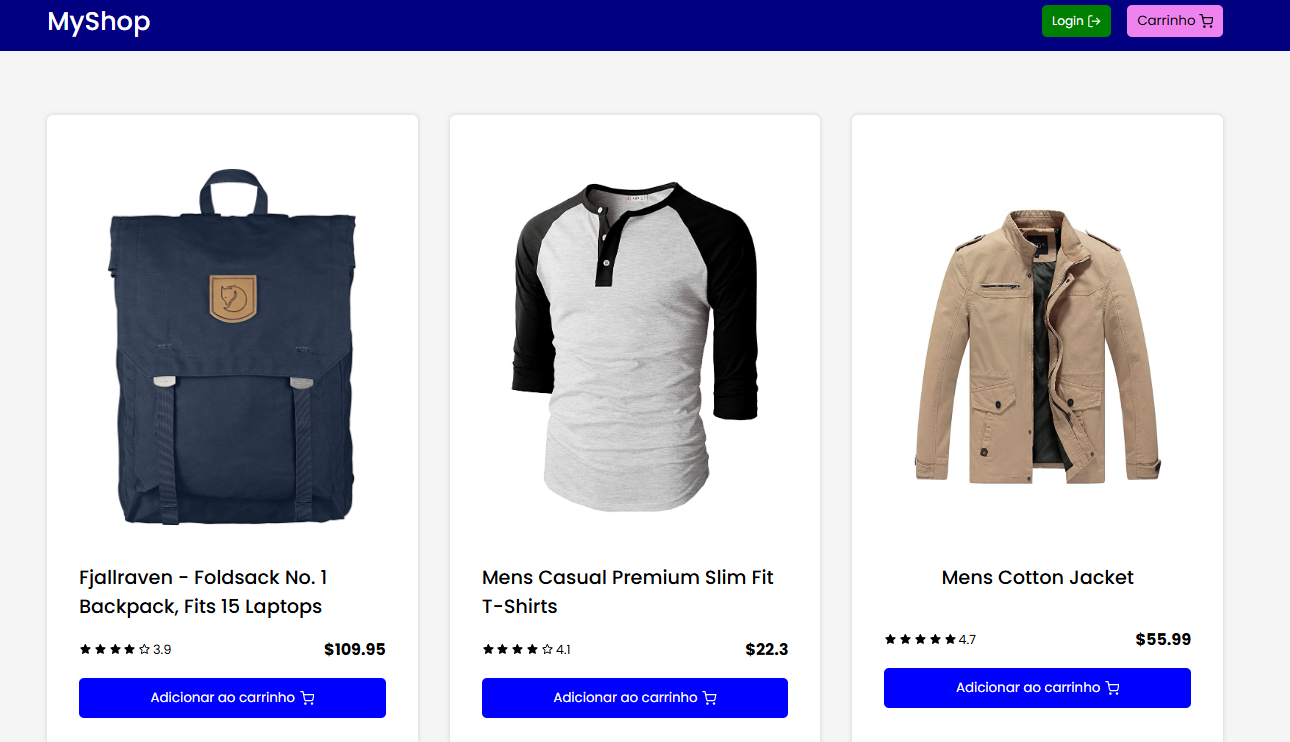
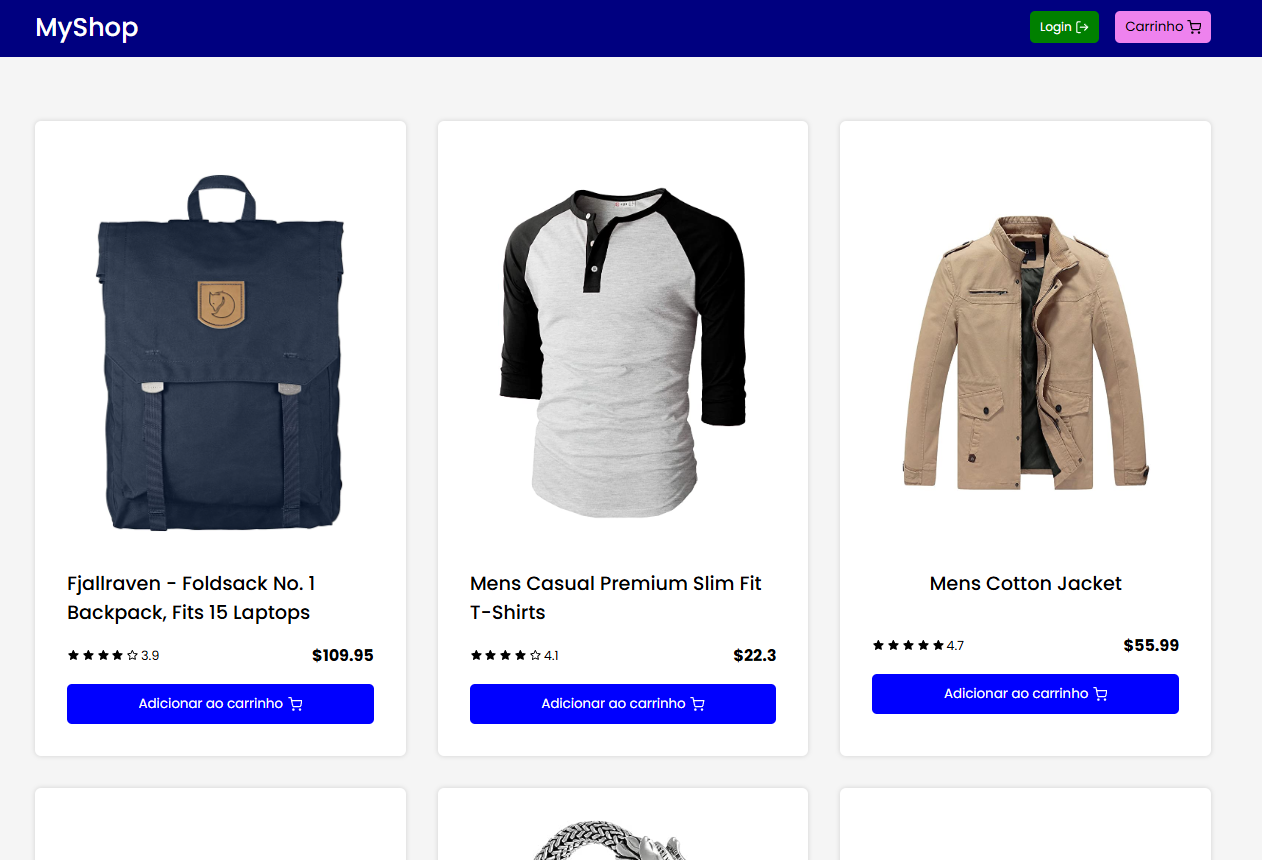
Adicionando melhorias na UX e melhorando a NavBar das páginas.

diff --git a/src/components/ProjectCard/styles.css b/src/components/ProjectCard/styles.css
@@ -3,13 +3,13 @@
   flex-direction: column;
   justify-content: space-between;
   margin-top: 8px;
-  background-color: #fff;
   border-radius: 12px;
-  box-shadow: 0 4px 12px rgba(0, 0, 0, 0.1);
+  box-shadow: 4px 4px 12px rgba(0, 0, 0, 0.575);
   overflow: hidden;
   transition: transform 0.5s ease;
   width: 100%;
   max-width: 420px;
+  
 }
 
 .project-card:hover {
@@ -24,7 +24,9 @@
 }
 
 .project-info {
+  background-color: #6e6e6e4f;
   display: flex;
+  align-items: center;
   justify-content: space-between;
   gap: 8px;
   padding: 16px;
@@ -33,9 +35,10 @@
 
 .project-title {
   font-family: "Inconsolata", Courier, monospace;
+  color: white;
 
   font-size: 20px;
-  font-weight: 500;
+  font-weight: 600;
   margin-bottom: 8px;
 }
 
@@ -47,12 +50,21 @@
   width: 92px;
   padding: 8px;
   border-radius: 8px;
+  font-weight: 500;
   height: 32px;
   background-color: #ff000470;
   color: white;
+  box-shadow: 0px 0px 8px #ff0004;
 }
 
 .btn-to-page:hover {
   background-color: #ff0004;
-  transition: 0.9s;
+  transition:  0.9s;
+}
+
+@media (max-width: 768px) {
+  .project-title{
+    font-size: 1.1em;
+    
+  }
 }

diff --git a/src/components/NavBarToPage/NavBarToPage.tsx b/src/components/NavBarToPage/NavBarToPage.tsx
@@ -1,9 +1,22 @@
 import "./styles.css";
 import { Link } from "react-router-dom";
+import { useEffect, useState } from "react";
 
 function NavBarToPage() {
+  const [scrolled, setScrolled] = useState(false);
+
+  useEffect(() => {
+    const handleScroll = () => {
+      setScrolled(window.scrollY > 50);
+    };
+
+    window.addEventListener("scroll", handleScroll);
+
+    return () => window.removeEventListener("scroll", handleScroll);
+  }, []);
+
   return (
-    <div className="nav-container-to-page">
+    <div className={`nav-container-to-page ${scrolled ? "nav-scrolled" : ""}`}>
       <nav className="navbar-desk-to-page">
         <Link to={"/"}>
           <img src="../images/Logo.webp" alt="navbar logo" />
@@ -11,7 +24,7 @@ function NavBarToPage() {
         <div className="nav-list">
           <ul>
             <Link className="button-nav-to-page" to={"/"}>
-              Home
+              Página inicial
             </Link>
           </ul>
         </div>

diff --git a/src/components/NavBarToPage/styles.css b/src/components/NavBarToPage/styles.css
@@ -1,20 +1,31 @@
 .nav-container-to-page {
-  position: relative;
-  width: 100%;
-  max-width: 990px;
-  max-height: 80px;
+ position: fixed;
+  display: flex;
+  align-items: center;
+  width: 101%;
+  height: 76px;
+  padding: 0 20px;
+  justify-content: space-between;
+  left: 50%;
+  transform: translate(-50%, -80%);
 }
 
 .nav-container-to-page .navbar-desk-to-page {
   display: flex;
   align-items: center;
   justify-content: space-between;
+  width: 100%;
+  max-width: 960px;
+  margin: auto;
 }
 .nav-container-to-page .navbar-desk-to-page .button-nav-to-page {
-  display: flex;
-  align-items: center;
   font-size: 24px;
   font-family: "Montserrat";
   font-weight: 500;
   gap: 8px;
+}
+
+.nav-scrolled {
+  background-color: rgba(0, 0, 0, 0.85); 
+  transition: background-color 0.3s ease;
 }

diff --git a/src/Pages/Project-Itau/styles.css b/src/Pages/Project-Itau/styles.css
@@ -16,10 +16,12 @@
 }
 
 .s-t-itau__img {
+  
   width: 100%;
   aspect-ratio: 9/16;
   object-fit: contain;
   border-radius: 12px;
+  margin-top: 40px;
 }
 
 .s-t-itau {
@@ -27,19 +29,22 @@
   grid-template-columns: repeat(auto-fit, minmax(0, 1fr));
   gap: 16px;
   width: 100%;
+  margin-top: 20px;
 }
 
 .s-h-itau {
   text-align: center;
 }
 .s-h-itau__title {
-  font-size: 2.5rem;
+  font-size: 2.3rem;
   font-weight: bold;
-  margin-bottom: 10px;
+  margin-bottom: 32px;
+  text-align: left;
 }
 .s-h-itau__desc {
   font-size: 1.125rem;
   color: #ffffff;
+  text-align: left;
 }
 
 .s-o-itau__title,

diff --git a/src/Pages/MyShop/styles.css b/src/Pages/MyShop/styles.css
@@ -5,7 +5,7 @@
   display: flex;
   flex-direction: column;
   align-items: center;
-  padding: 40px 20px 60px;
+  padding: 48px 20px 60px;
   font-family: 'Montserrat', sans-serif;
   color: #ddd;
   box-sizing: border-box;
@@ -16,7 +16,7 @@
   max-width: 920px;
   display: flex;
   justify-content: center;
-  margin-bottom: 40px;
+  margin: 40px 0;
 }
 
 .s-p-MyShop__image {
@@ -40,7 +40,7 @@
   font-size: 2.2rem;
   font-weight: 700;
   margin-bottom: 24px;
-  color: #fff;
+  color: #4e9aff;
   text-shadow: 0 0 8px rgba(0, 0, 0, 0.877);
 }
 

diff --git a/src/Pages/Project-Itau/ProjectItau.tsx b/src/Pages/Project-Itau/ProjectItau.tsx
@@ -28,7 +28,7 @@ function ProjetoItau() {
 
         <header className="s-h-itau">
           <h1 className="s-h-itau__title">
-            Projeto UX – Diagnóstico e Redesign do App Itaú
+            Diagnóstico e Redesign do App Itaú
           </h1>
           <p className="s-h-itau__desc">
             Projeto prático focado em pesquisa com usuários, diagnósticos de usabilidade e redesign de telas baseado em dados reais. Desenvolvido como parte do curso de UX/UI Design da EBAC.

diff --git a/src/components/Projects/Projects.tsx b/src/components/Projects/Projects.tsx
@@ -10,14 +10,14 @@ const Projects: React.FC = () => {
     {
       id: "1",
       title: "Redesign Itaú",
-      image: "./images/projects/Thumb-itau.webp",
+      image: "./images/projects/Thumb-itau.png",
       category: "UX/UI",
       path: "redesign-itau",
     },
     {
       id: "2",
       title: "Pix Na SumUp",
-      image: "./images/projects/SumUp.webp",
+      image: "./images/projects/SumUp.png",
       category: "UX/UI",
       path: "pix-na-sumUp",
     },

diff --git a/src/Pages/Project-SumUp/PixNaSumUp.tsx b/src/Pages/Project-SumUp/PixNaSumUp.tsx
@@ -18,7 +18,7 @@ function PixNaSumUp() {
 
         <header className="s-h-sumup">
           <h1 className="s-h-sumup__title">
-            Projeto UX – Interface de PIX para SumUp
+            Landing Page – Interface de PIX para SumUp
           </h1>
           <p className="s-h-sumup__desc">
             Landing page focada em arquitetura da informação, hierarquia visual e responsividade, aplicada como exercício prático durante o curso de UX/UI Design da EBAC.

diff --git a/src/components/Projects/styles.css b/src/components/Projects/styles.css
@@ -8,6 +8,7 @@
 }
 
 .projects-list {
+  
   display: flex;
   flex-wrap: wrap;
   gap: 24px;
@@ -18,11 +19,11 @@
   padding: 24px;
   display: flex;
   flex-direction: column;
-  margin: 0 auto;
   min-height: 70vh;
   width: 100%;
   max-width: 1400px;
   min-width: 48vw;
+  margin-bottom: 64px;
 }
 
 .projects-filters {

diff --git a/src/Pages/Project-SumUp/styles.css b/src/Pages/Project-SumUp/styles.css
@@ -26,6 +26,7 @@
   height: auto;
   object-fit: contain;
   border-radius: 12px;
+  margin-top: 40px;
 }
 
 .s-h-sumup {
@@ -38,6 +39,7 @@
   color: #008cff;
   margin-bottom: 24px;
   text-shadow: -2px 3px 8px #000000a9;
+  text-align: left;
 }
 
 .s-h-sumup__desc {

diff --git a/src/components/FloatingElements/styles.css b/src/components/FloatingElements/styles.css
@@ -52,8 +52,9 @@
     display: none;
   }
 }
-@media (max-width: 1462px) {
-  .container-elements .element-5 {
+@media (max-width: 1799px) {
+  .container-elements .element-5,
+  .element-2, .element-4 {
     display: none;
   }
 }

diff --git a/src/Pages/PortifolioProject/styles.css b/src/Pages/PortifolioProject/styles.css
@@ -22,11 +22,12 @@
   max-height: 440px;
   object-fit: cover;
   border-radius: 12px;
+  margin-top: 40px;
 }
 
 
 .s-h-p {
-  text-align: center;
+  text-align: left;
 }
 .s-h-p__title {
   font-size: 2.5rem;
